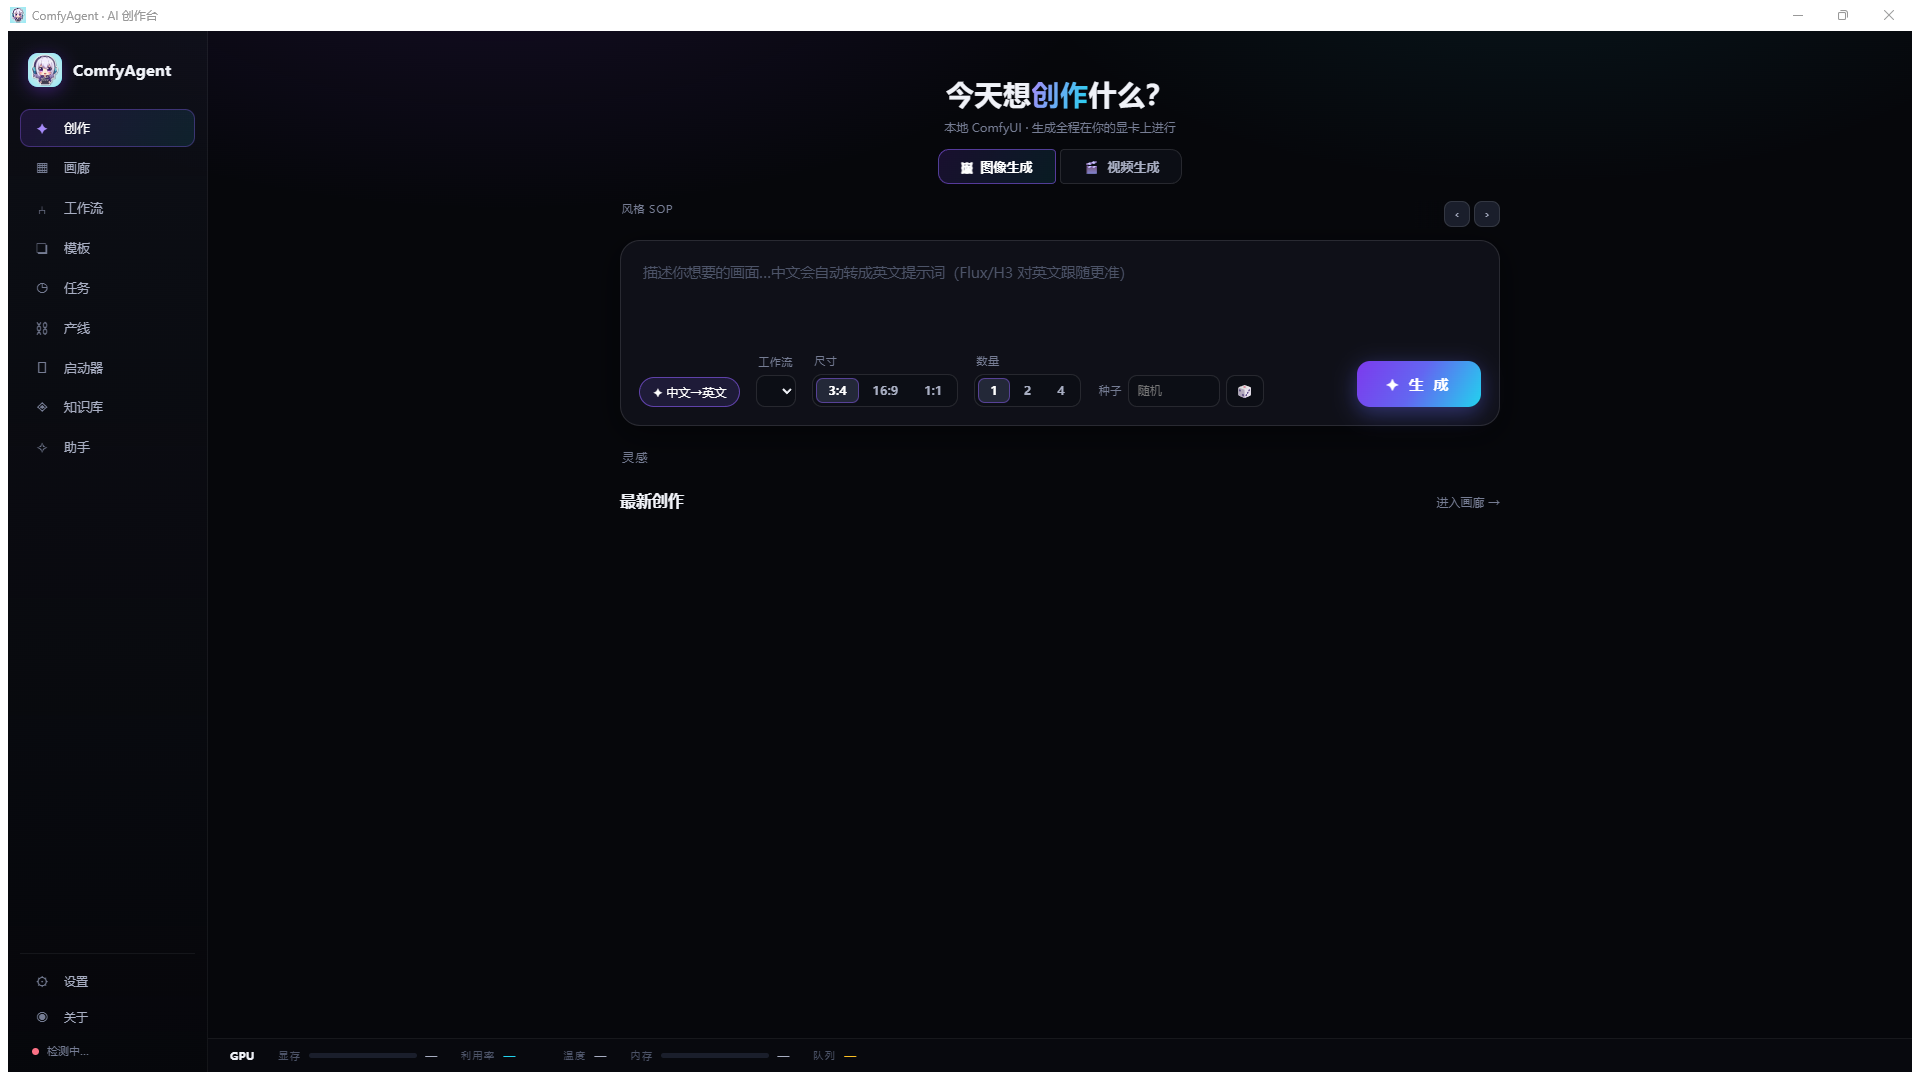
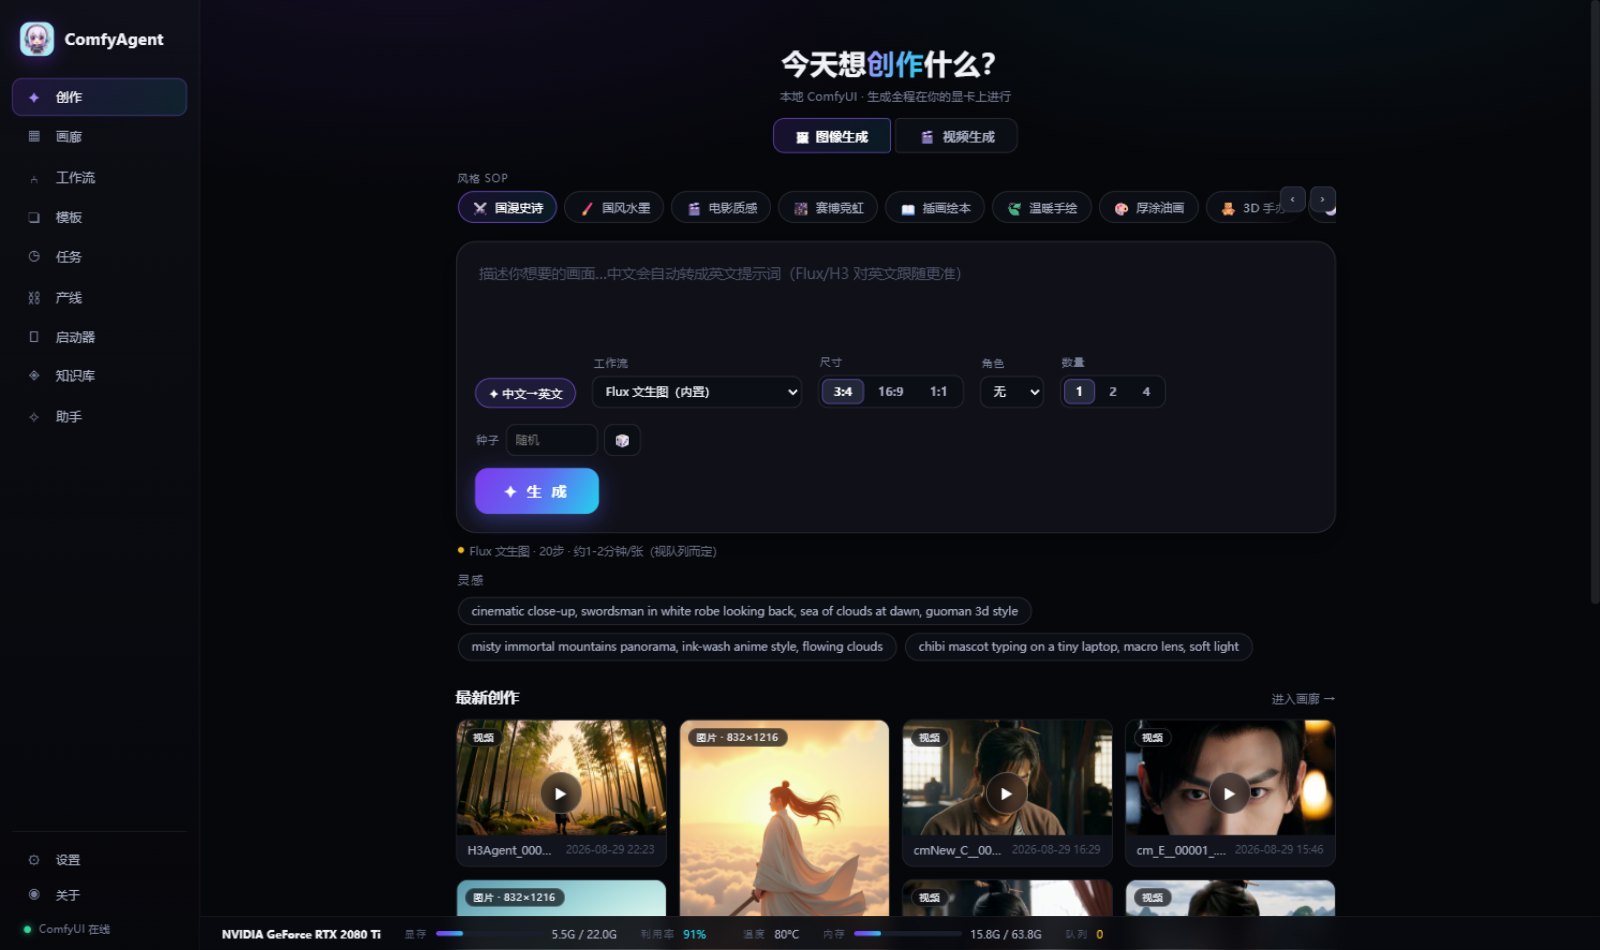
docs: v4.4.0 全套截图（9 页全模块）+ README 功能清单同步

diff --git a/README.md b/README.md
@@ -1,32 +1,34 @@
 # ComfyAgent · AI 创作台
 
-本地优先的 AI 创作桌面软件：一个原生窗口管理你的 ComfyUI —— 中文提示词生图/生视频、成果画廊、可视化工作流、任务队列、Obsidian 知识库、硬件监控。
+本地优先的 AI 创作台：一个原生窗口管理你的 ComfyUI —— 中文提示词生图/生视频、成果画廊、可视化工作流、600+ 模板库、任务队列、产线批次、Obsidian 知识库、硬件监控。
 
 ![创作页](docs/screenshot-create.png)
 
 | | |
 |---|---|
 | ![画廊](docs/screenshot-gallery.png) | ![工作流](docs/screenshot-editor.png) |
-| ![产线](docs/screenshot-pipeline.png) | ![启动器](docs/screenshot-launcher.png) |
-| ![知识库](docs/screenshot-obsidian.png) | *所有页面底部常驻硬件监控条（GPU 利用率/温度/显存/内存/队列，2 秒刷新）* |
+| ![模板](docs/screenshot-templates.png) | ![产线](docs/screenshot-pipeline.png) |
+| ![启动器](docs/screenshot-launcher.png) | ![知识库](docs/screenshot-obsidian.png) |
+| ![助手](docs/screenshot-agent.png) | ![设置](docs/screenshot-settings.png) |
 
 ## 为什么是它
 
 - **桌面产品**：双击 exe = 原生窗口 + 系统托盘，关窗最小化、再点托盘唤回；单实例；无控制台黑框
-- **本地优先**：生成全程在你自己的显卡上，数据不出机器（可选的 GLM 增强除外）
+- **本地优先**：生成全程在你的显卡上，数据不出机器
 - **零依赖技术栈**：纯 Python 标准库后端 + 原生 JS 前端，发布包仅 ~10MB
 
 ## 功能
 
-- ✦ **创作**：中文输入自动增强为英文提示词（GLM 精修，MyMemory 兜底）→ Flux 生图 / H3 W4A8 生视频（640×352·5秒·4步·原生音频）；图/视频双模式 Tab、12 种风格 SOP、角色一致性锁定、真实耗时预估
-- ⛓ **产线**：批次闭环 —— 导入分集脚本自动解析镜头清单 → 批量排队（逐镜状态实时同步）→ 单镜重试 → 🎬 成功镜头一键拼接成片
-- ▦ **画廊**：实时瀑布流、视频悬浮预览、悬浮操作（重跑/导入/归档/下载/删除）、批量选择批量归档删除、按文件夹筛选、PNG 内嵌参数解析（模型/采样器/种子/提示词）
-- ⑃ **工作流**：SVG 节点图可视化编辑（拖拽连线/网格吸附/节点校验/快捷键）；内置 Flux 文生图 + H3 文生/图生视频工作流；导入 ComfyUI 导出的 UI/API JSON 或 PNG 提取
-- ◷ **任务**：队列/执行状态、采样进度条、每条任务的时长预估与失败一键重试
-- ⏻ **启动器**：ComfyUI 启动/停止/重启、版本检查与一键更新（自动 stash 恢复本地改动）、模型盘点、自定义节点清单、环境诊断、ComfyUI 日志
-- ◈ **知识库**：成果一键归档为 Obsidian 笔记（带生成参数表格 + obsidian:// 跳转）；工作流同步
-- ✧ **助手**：中文指令直达（画/跑/归档/状态/中断/清空），支持自由表述（GLM）
-- 全局**硬件状态条**：GPU 利用率/温度/显存、内存、队列（nvidia-smi，2s 刷新）
+- ✦ **创作**：中文输入自动增强为英文提示词（GLM 精修，MyMemory 兜底）→ Flux 生图 / H3 W4A8 生视频（640×352·5秒·4步·原生音频）；12 种风格 SOP、角色锁定串、图/视频双模式
+- ▦ **画廊**：实时瀑布流、视频悬浮预览、批量归档/删除、PNG 内嵌参数解析、文件夹筛选
+- ❏ **模板库**：ComfyUI 官方 602 模板（9 大分类），真实实例图预览，一键载入编辑器
+- ⑃ **工作流**：SVG 节点可视化编辑（拖拽连线/网格吸附/节点校验）；内置 Flux + H3 双工作流；导入 UI/API JSON 或 PNG 提取
+- ◷ **任务**：队列/进度/ETA/失败一键重试/GPU 耗时账本
+- ⛓ **产线**：分集脚本解析→镜头清单→批量排队→逐镜状态→拼接成片（含 BGM 混音）
+- ⏻ **启动器**：ComfyUI 启停/版本检查与一键更新/模型盘点/自定义节点/环境诊断/日志
+- ◈ **知识库**：Obsidian 归档/统计/双链关系图/全库搜索预览
+- ✧ **助手**：中文指令直达，支持多步动作序列
+- 全局**硬件状态条**：GPU 利用率/温度/显存/内存/队列（nvidia-smi，2s 刷新）
 
 ## 安装使用
 
@@ -34,19 +36,14 @@
 2. 双击 `ComfyAgent.exe` —— 原生窗口自动打开（首次有 30 秒设置向导）
 3. 关窗最小化到托盘，托盘菜单可退出
 
-前提：本机 ComfyUI（默认 127.0.0.1:8188）；ffmpeg 在 PATH（视频海报帧，缺了会降级）；WebView2 运行时（Win10/11 一般自带）。
-
-> 火绒/杀软若误报 PyInstaller 程序，加信任即可。数据全部在 exe 旁的 `data/`，删目录即卸载。
+前提：本机 ComfyUI（默认 127.0.0.1:8188）；ffmpeg 在 PATH（视频海报帧）；WebView2 运行时。
 
 ## 开发
 
 ```bash
-# 源码模式（浏览器打开，带 --open 自动开页）
-python server.py --open
-# 桌面壳模式
-python app.py
-# 构建产品 exe（需 pip install pyinstaller pywebview pystray pillow）
-bash build_exe.sh
+python server.py --open   # 源码模式（浏览器打开）
+python app.py             # 桌面壳模式
+bash build_exe.sh         # 构建产品 exe
 ```
 
 架构与迭代史见 [CHANGELOG.md](CHANGELOG.md)。
